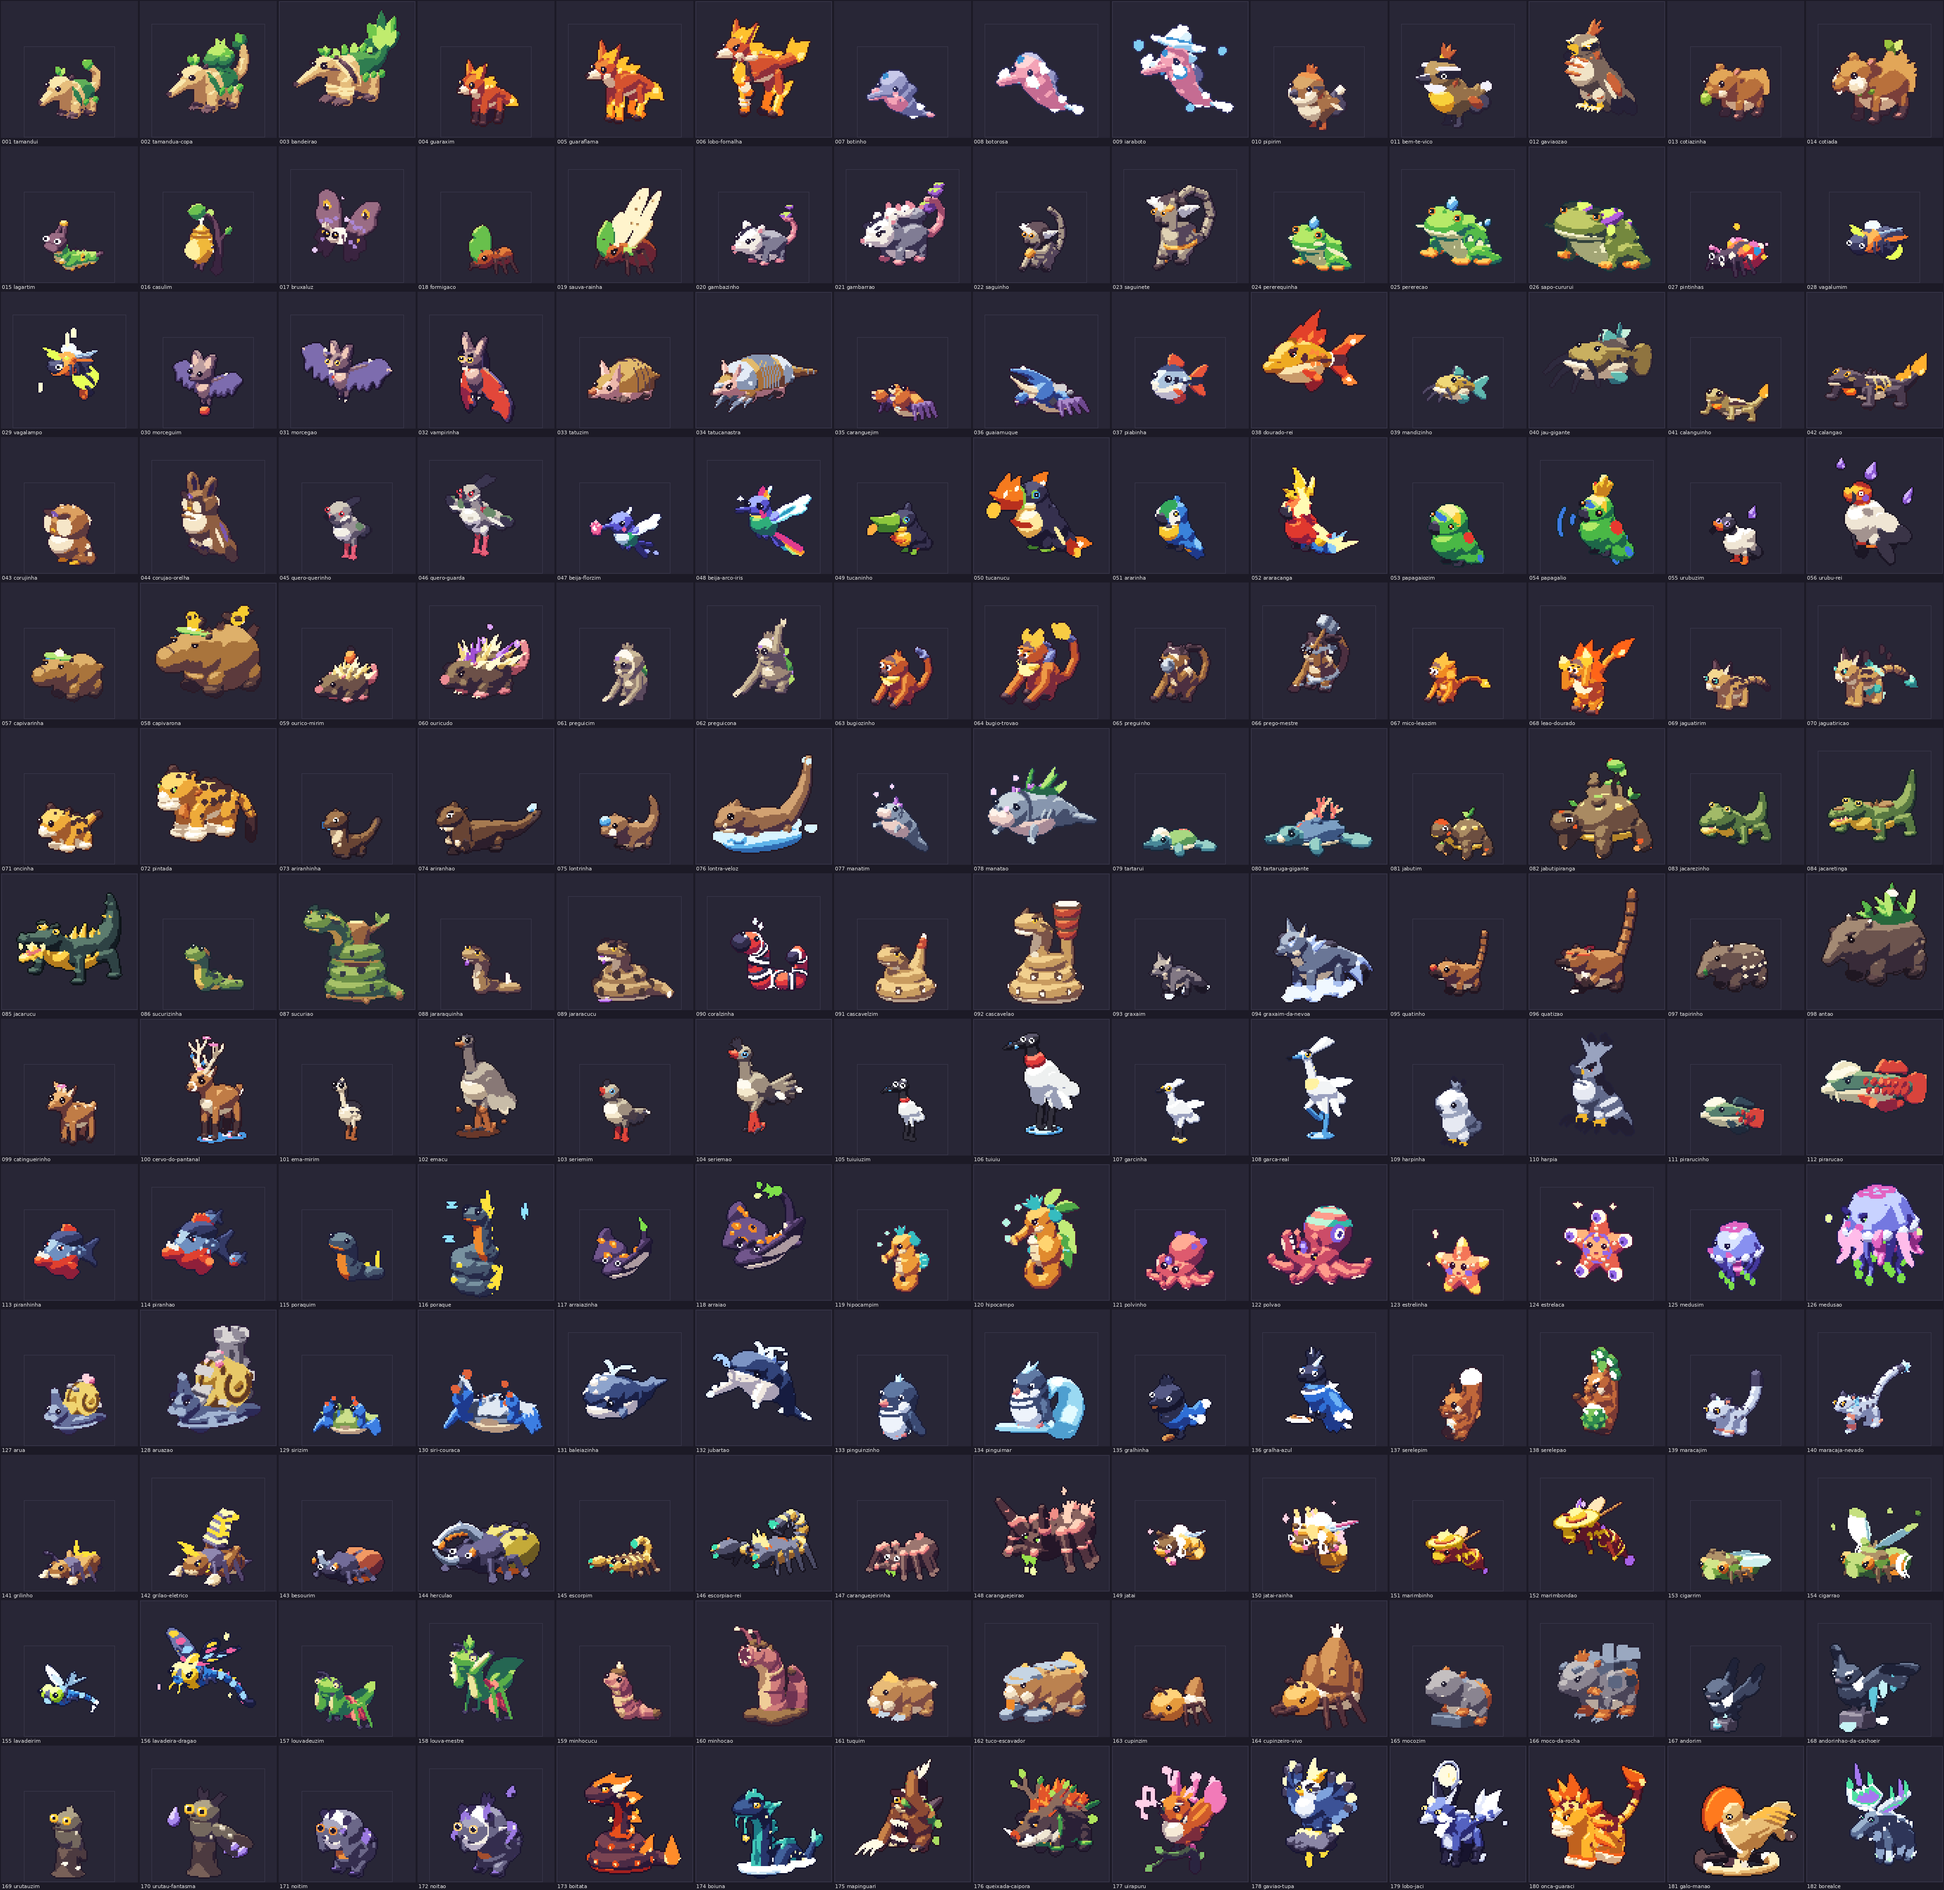
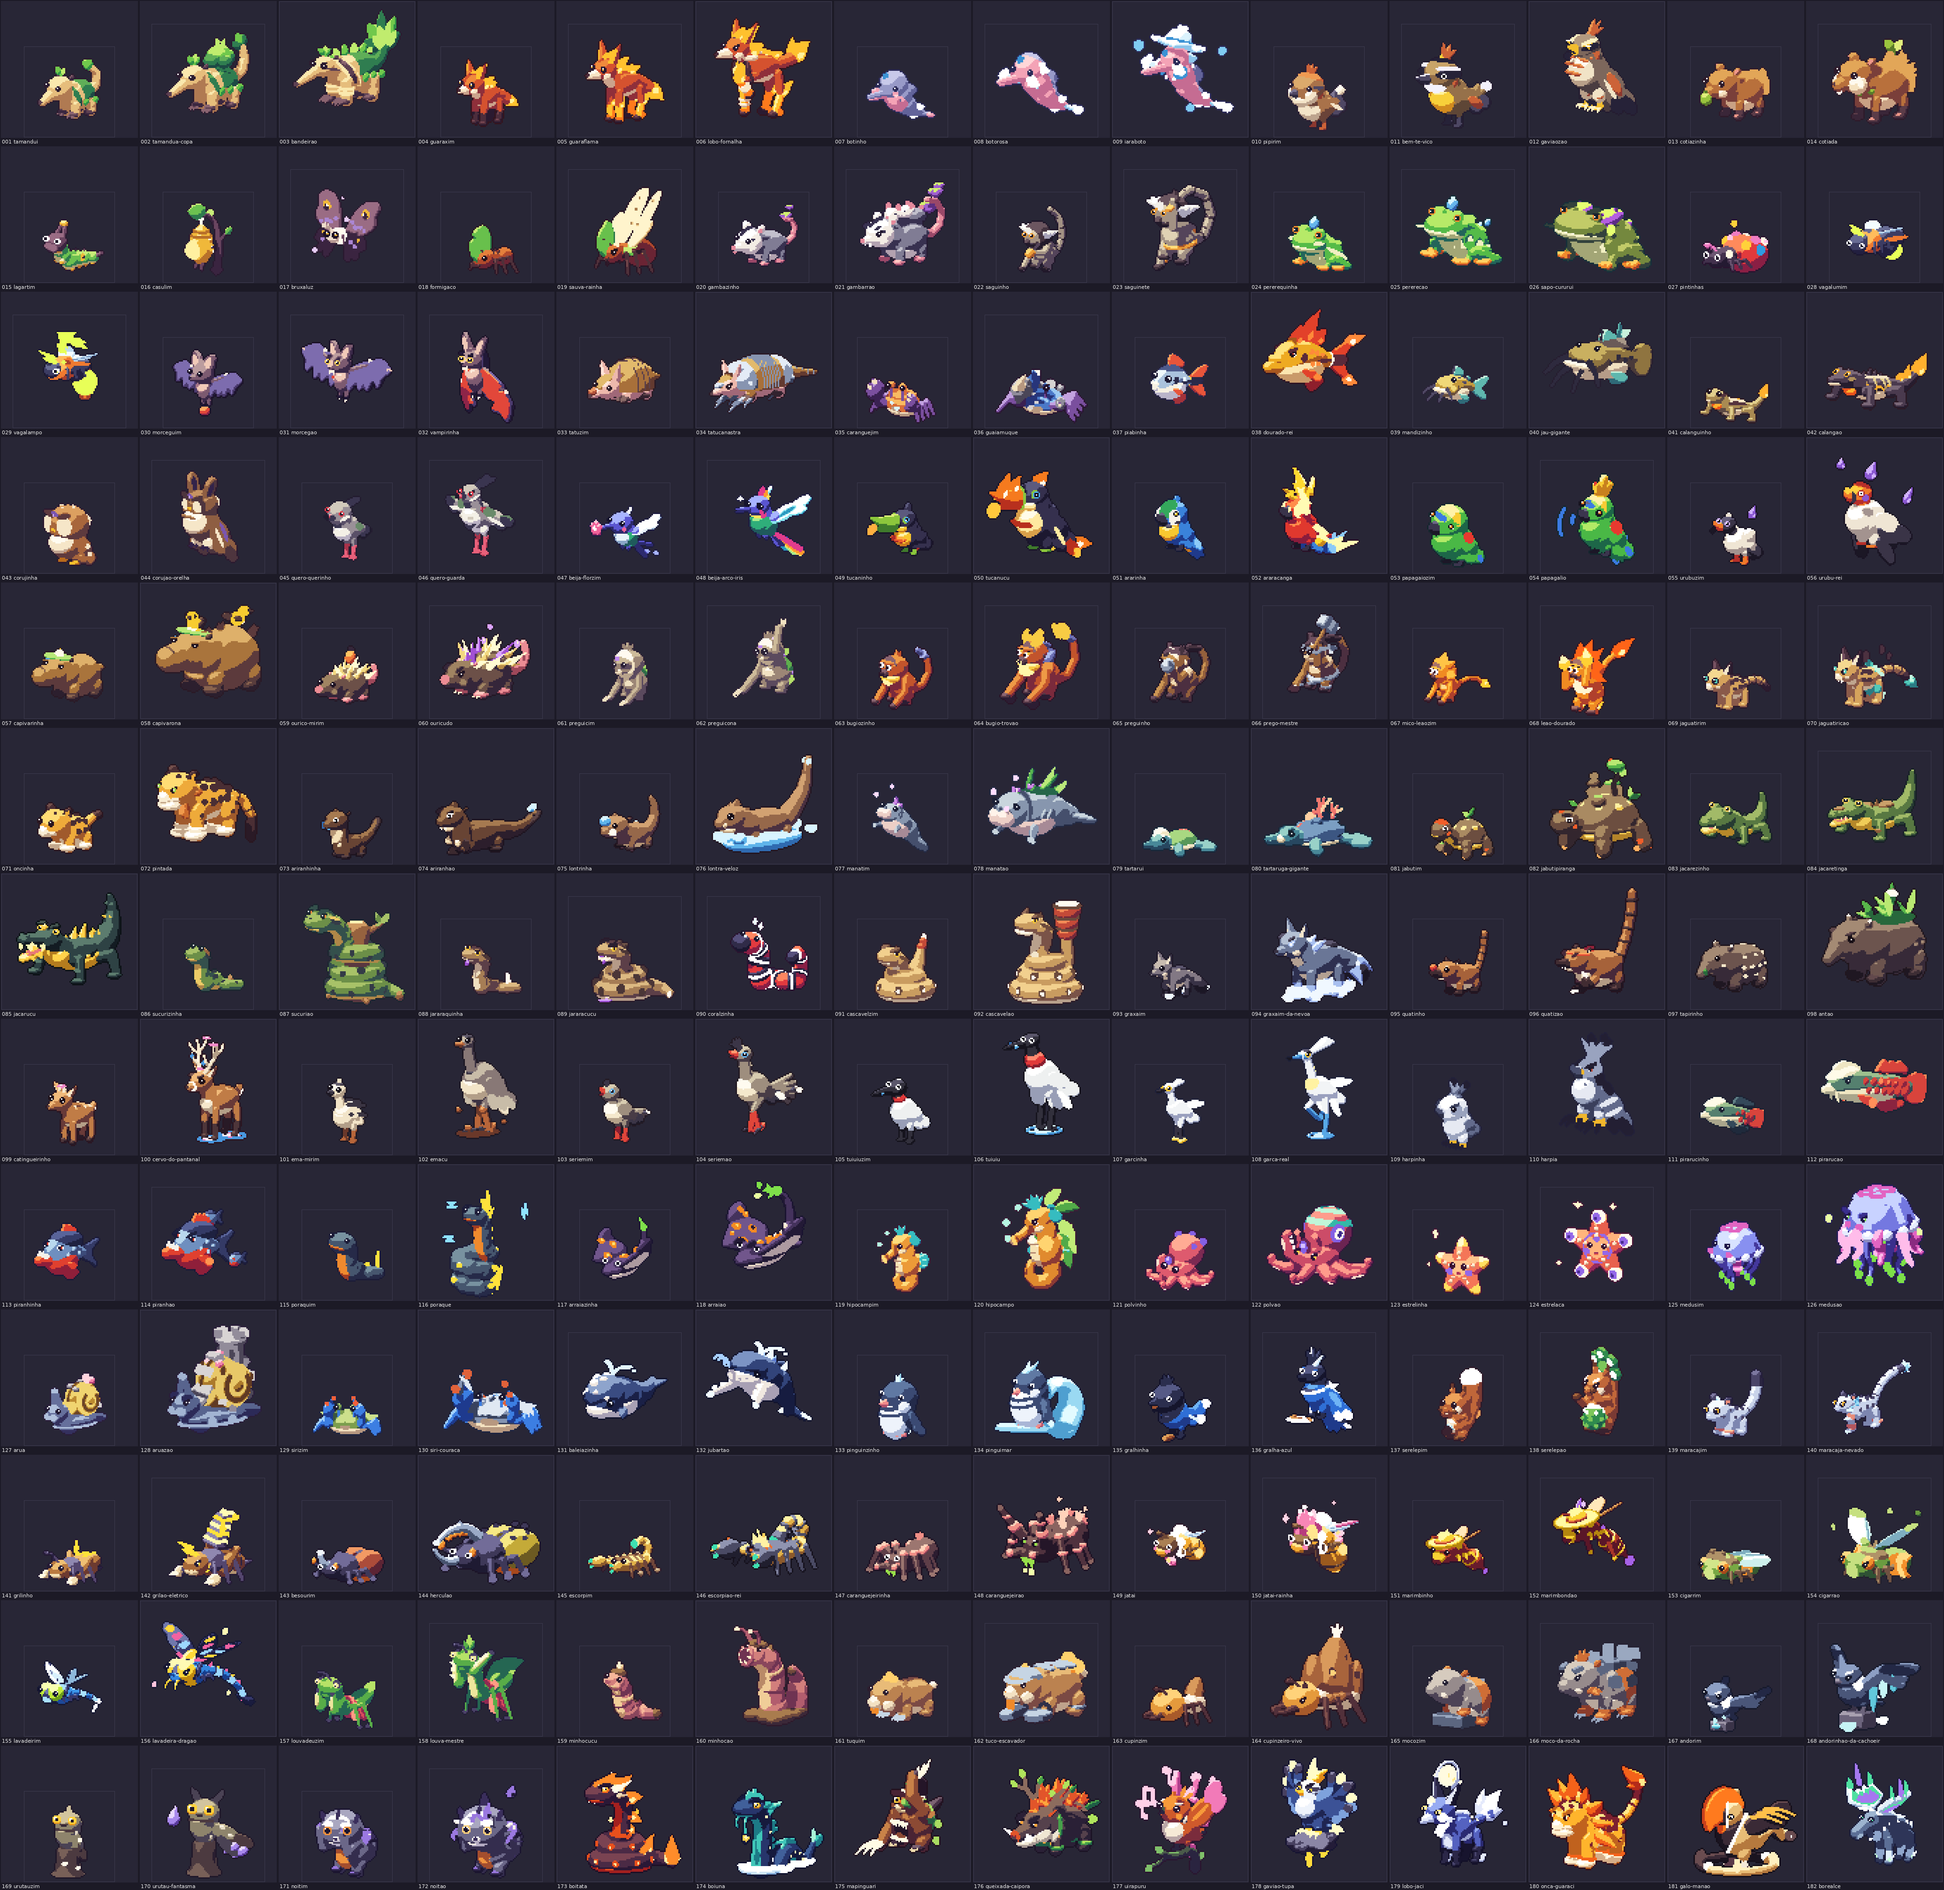
Ponto de salvamento: agentes em andamento
Claude-Session: https://claude.ai/code/session_01SZRMGL5ucTqVdJSeQD5arp

diff --git a/tools/build-raras.ts b/tools/build-raras.ts
@@ -24,7 +24,7 @@ const PASTA = join(RAIZ, 'public/assets/sprites/criatura');
 const VISTAS = ['frente', 'costas', 'mapa'] as const;
 
 /** h = giro de matiz em graus · s = fator de saturação · l = soma na luminosidade (−0,2..0,2) · alvo = pinta tudo numa matiz só (graus) */
-interface Receita { h?: number; s?: number; l?: number; alvo?: number; mistura?: number; /** só gira as matizes dentro desta faixa [de, até] (graus) */ faixa?: [number, number]; /** matiz para tingir os cinzas e brancos (usada quando a criatura é quase sem cor) */ tingir?: number }
+interface Receita { h?: number; s?: number; l?: number; alvo?: number; mistura?: number; /** só gira as matizes dentro desta faixa [de, até] (graus) */ faixa?: [number, number]; /** matiz para tingir os cinzas e brancos (usada quando a criatura é quase sem cor) */ tingir?: number; /** receita para as cores que ficaram fora da `faixa` */ extra?: Receita }
 
 /** padrão por tipo principal: a cor "rara" de cada família */
 const POR_TIPO: Record<TipoId, Receita> = {
@@ -50,7 +50,8 @@ const POR_TIPO: Record<TipoId, Receita> = {
 /** receitas escritas à mão (iniciais, aves vistosas, peixes e as que o padrão deixava sem graça) */
 const RECEITAS: Record<string, Receita> = {
   // iniciais: Mata → outono dourado; Brasa → fogo azul; Rio → boto lilás
-  tamandui: { h: -80, s: 1.2, faixa: [60, 200] }, 'tamandua-copa': { h: -80, s: 1.2, faixa: [60, 200] }, bandeirao: { h: -80, s: 1.2, faixa: [60, 200] },
+  // iniciais da Mata: folhas de ouro e pelo prateado
+  tamandui: { h: -80, s: 1.2, faixa: [60, 200], extra: { alvo: 215, s: 0.55, l: 0.04 } }, 'tamandua-copa': { h: -80, s: 1.2, faixa: [60, 200], extra: { alvo: 215, s: 0.55, l: 0.04 } }, bandeirao: { h: -80, s: 1.2, faixa: [60, 200], extra: { alvo: 215, s: 0.55, l: 0.04 } },
   guaraxim: { h: 200, s: 1.0 }, guaraflama: { h: 200, s: 1.0 }, 'lobo-fornalha': { h: 200, s: 1.0 },
   botinho: { h: 85, s: 1.05 }, botorosa: { h: -100, s: 1.15 }, iaraboto: { h: 85, s: 1.05 },
   // aves e pássaros
@@ -95,7 +96,7 @@ const lim = (x: number, a = 0, b = 1) => Math.max(a, Math.min(b, x));
 export function trocarCor(r: number, g: number, b: number, rc: Receita): [number, number, number] {
   const [h, s, l] = rgbParaHsl(r, g, b);
   if (s < 0.12 || l < 0.08 || l > 0.94) return [r, g, b];
-  if (rc.faixa && !(h >= rc.faixa[0] && h <= rc.faixa[1])) return [r, g, b];
+  if (rc.faixa && !(h >= rc.faixa[0] && h <= rc.faixa[1])) return rc.extra ? trocarCor(r, g, b, rc.extra) : [r, g, b];
   let nh = h + (rc.h ?? 0);
   if (rc.alvo !== undefined) { const m = rc.mistura ?? 1; let d = ((rc.alvo - h + 540) % 360) - 180; nh = h + d * m; }
   // peso pela saturação: cores quase cinzas giram menos (transição suave)

diff --git a/assets-src/fx/fx-gerais.ts b/assets-src/fx/fx-gerais.ts
@@ -46,6 +46,14 @@ const CUIAS: Record<string, CoresCuia> = {
   'cuia-rapida': cuiaCores(['#a32638', '#e0483c', '#f58a4b'], ['#c4c6d4', '#fff8e7', '#ffffff'], ['#fff07a', '#e0483c'], '#2f86c4', '#4a1020'),
   'cuia-mel': cuiaCores(['#c8662a', '#f9c22b', '#fff07a'], ['#7a3a18', '#c8662a', '#f0a060'], ['#fff8e7', '#f58a4b'], '#6b4226', '#4a2010'),
   'cuia-guardia': cuiaCores(['#1f7a6c', '#3fbfa0', '#8fe8b0'], ['#c98f4e', '#f9c22b', '#fff07a'], ['#fff8e7', '#3a5ad0'], '#e58ad0', '#0e3a34'),
+  // cuias artesanais do Mestre Cabaceiro (spec 10A-6): a cabaça tem a cor do fruto da cuieira
+  'cuia-ligeira': cuiaCores(['#c98f1e', '#f9c22b', '#fff07a'], ['#c4c6d4', '#fff8e7', '#ffffff'], ['#fff8e7', '#6fc7e8'], '#2f86c4', '#5a3a08'),
+  'cuia-pesada': cuiaCores(['#2a1f33', '#4a3a55', '#7a6a8a'], ['#5a5a6e', '#8a8aa0', '#c4c6d4'], ['#c4c6d4', '#2a1f33'], '#e0483c', '#120c18'),
+  'cuia-lua': cuiaCores(['#a8a8b8', '#e8e8f0', '#ffffff'], ['#2e2452', '#5a4a8c', '#9a8ad0'], ['#fff07a', '#5a4a8c'], '#fff07a', '#3b3550'),
+  'cuia-amiga': cuiaCores(['#2f7a3a', '#6cc04a', '#b8ec7a'], ['#c8662a', '#f0a060', '#ffd0a0'], ['#fff8e7', '#e58ad0'], '#e58ad0', '#16401c'),
+  'cuia-isca': cuiaCores(['#2f4f9c', '#4f8ae0', '#9cd0f4'], ['#6b4226', '#9c6434', '#c98f4e'], ['#e8c07a', '#2f4f9c'], '#e0483c', '#14284e'),
+  'cuia-nivel': cuiaCores(['#9c2a2a', '#e0483c', '#f7a07a'], ['#1a1423', '#3b2a35', '#6a5a6e'], ['#f9c22b', '#9c2a2a'], '#f9c22b', '#4a1010'),
+  'cuia-amor': cuiaCores(['#a8407e', '#e58ad0', '#f7c4e0'], ['#fff8e7', '#ffffff', '#ffffff'], ['#e0483c', '#f7c4e0'], '#e0483c', '#4a1a38'),
 };
 /** quadros: 0 fechada · 1 inclina à esquerda · 2 inclina à direita · 3 aberta · 4–7 girando no ar */
 function quadroCuia(q: Quadro, i: number, cores: CoresCuia) {

diff --git a/src/battle/view/menus.ts b/src/battle/view/menus.ts
@@ -14,7 +14,7 @@ import { Abas } from '../../ui/componentes/abas';
 import { golpe as defGolpe } from '../../data/golpes';
 import { ITENS, item as defItem, temItemDef } from '../../data/itens';
 import { atributos, especie, nomeDe, temEspecie } from '../criatura';
-import { fxUi } from './cena';
+import { fxUi, temFx } from './cena';
 import { div, type Ator } from './palco';
 import { painel } from './hud';
 
@@ -152,7 +152,7 @@ export function menuMochila(o: { mochila: Record<string, number>; podeCuia: bool
   const montar = (bi: number) => {
     ultimoBolso = bi; lista?.el.remove();
     const b = BOLSOS_BATALHA[bi], its = itensDe(b);
-    const mini = (id: string) => (b === 'cuias' ? (() => { const f = fxUi(id, 0); f.el.style.marginTop = '-2px'; return f.el; })() : undefined);
+    const mini = (id: string) => (b === 'cuias' ? (() => { const f = fxUi(temFx(id) ? id : 'cuia', 0); f.el.style.marginTop = '-2px'; return f.el; })() : undefined);
     lista = new Lista({
       itens: its.length ? its.map((it) => ({ rotulo: it.nome, valor: '×' + o.mochila[it.id], icone: mini(it.id), desabilitado: b === 'cuias' && !o.podeCuia })) : [{ rotulo: 'Nada neste bolso.', desabilitado: true }],
       x: 10, y: 30, largura: 212, visiveis: 4, moldura: null, tamanho: 12,

diff --git a/src/battle/view/tela.ts b/src/battle/view/tela.ts
@@ -132,8 +132,9 @@ export function criarTelaBatalha(args: ArgsTelaBatalha): Tela {
   /** Pelagem Rara (spec 10A-5): chuva de estrelas em volta da criatura ao entrar */
   async function brilhoRaro(a: Ator) {
     som('cuia-estrelas');
-    const [cx, cy] = a.centro, pontos: [number, number][] = [[-14, -10], [12, -14], [-6, 8], [16, 4], [0, -20], [-18, 2]];
-    for (const [dx, dy] of pontos) { cena.fx('st-brilho', cx + dx, cy + dy); await rel.dormir(0.07); }
+    const [cx, cy] = a.centro, r = Math.max(14, Math.round(a.alt * 0.55)), pontos: [number, number][] = [[-1, -0.7], [0.9, -1], [-0.4, 0.6], [1.1, 0.3], [0, -1.3], [-1.2, 0.1], [0.5, 0.9], [-0.8, -1.1]];
+    cena.fx('cap-estrelas', cx, cy - 4);
+    for (let volta = 0; volta < 2; volta++) for (const [dx, dy] of pontos) { cena.fx('st-brilho', cx + Math.round(dx * r * (volta ? 0.7 : 1)), cy + Math.round(dy * r * (volta ? 0.7 : 1))); await rel.dormir(0.05); }
     cena.fx('cap-estrelas', cx, cy - 4);
   }
   async function sair(p: Pos) {

diff --git a/docs/ARTE-FINAL.md b/docs/ARTE-FINAL.md
@@ -48,3 +48,30 @@ Ferramentas no scratchpad: folha de contato (`folha.py`), antes/depois por id (`
   aparecem; barriga laranja grande no peito; sobrancelhas brancas.
 - 169 urutauzim / 170 urutau-fantasma: cabeça para a câmera (dois olhos de pires), riscas de casca e líquen, plumagem mais clara que o toco.
 - 167 andorim (e a paleta do 168): asas-foice varridas para trás (antes pareciam orelhas), fuligem mais clara com volume, sobrancelha e queixo brancos.
+- 150 jataí-rainha: coroa de cera ROSA de três pontas (branca sumia nas asas; mel sumia no corpo), cinta rosa limpa no lugar dos babados.
+- 154 cigarrão: ondas sonoras laranja e mais grossas (brancas pareciam costelas da asa).
+- 101 ema-mirim / 105 tuiuiuzim: proporção de filhote (corpo e cabeça maiores, pernas e pescoço mais curtos, olho maior): antes eram fiapos na célula.
+- 109 harpinha: bico maior e mais curvo, sobrancelha escura franzida, penacho maior. 110 harpia: barriga branca grande sob o colar negro.
+- 181 galo-manaó: o corte das duas águas virou um plano vertical que contém as câmeras de batalha (fase da calota girada 50°) e a asa da frente
+  ficou escura: na batalha o corpo lê metade areia / metade rio Negro, lado a lado.
+- 182 borealce: chifrada do ataque físico mais curta (o zoom manual cortava a galhada; o tamanho é limitado pela própria galhada — fica assim).
+- 165 mocozim (e paleta do 166): cinza puxado ao pardo, garupa ruiva descendo pelos flancos, bochechas maiores.
+- 029 vagalampo: lampião sem aros (os aros escuros listravam como abelha), faíscas mais largas e perto do corpo (+3 pts de célula).
+- 155 lavadeirim (e 156 pela animação compartilhada `voaLib`): bater de asas do especial/físico mais curto; 156 com enquadre de costas 0.96.
+- 027 pintinhas: abdômen vermelho — a fresta entre os élitros deixou de ser uma risca escura; lê como cúpula de joaninha.
+- 148 caranguejeirão: patas mais finas e articuladas; enquadre 0.92/0.94 para nenhum quadro encostar na borda.
+- 146 escorpião-rei: cauda um pouco desenrolada para cima (pouca diferença). 145 escorpim: testei cauda erguida, piorou (enrolava sobre o corpo) — revertido.
+
+## Marco 3 — fechamento (20/11)
+- 25 sprites mudaram (lista no aviso em docs/CAPTURA-CRIACAO.md). `npx tsc --noEmit` limpo; `checar.ts` nos retocados: só restam
+  olho grande em noitim/noitão (6 px, é o traço "olhos de coruja"), urutau-fantasma (4,6 px), e repouso < 68% em vagalampo (64%),
+  tuiuiuzim costas (66%), lavadeirim costas (59%). Nenhum quadro novo encosta na borda (cigarrão físico#1 e escorpião-rei desmaio#3 já encostavam antes).
+- Atlas: 252 entradas, as 182 criaturas presentes, meta dos retocados coerente.
+- Folhas: docs/capturas/todas-frente.png, docs/capturas/todas-mapa.png (finais) e docs/capturas/retoques-2.png (antes rosado × depois verde: frente, costas, mapa).
+
+### Continua fraco (pendências honestas)
+- 036 guaiamuque e 146 escorpião-rei: melhoraram pouco; pedem remodelagem da pose (garra/cauda) com mais tempo.
+- 148 caranguejeirão: ainda embolado (tufos salmão + perna erguida que parece chifre).
+- 129 sirizim / 130 siri-couraça, 141 grilinho, 143 besourim, 153 cigarrim: legíveis, mas chatos e baixos — não mexidos.
+- 119/120 hipocampo, 055 urubuzim (filhote de urubu é branco mesmo), 061 preguicim: revistos, aceitáveis — não mexidos.
+- Pequenos na célula por animação larga (desmaio/ataque do kit): 015 lagartim, 018 formigaço, 028 vagalumim, 093 graxaim, 115 poraquim, 107 garcinha — não mexidos.

diff --git a/docs/CAPTURA-CRIACAO.md b/docs/CAPTURA-CRIACAO.md
@@ -27,3 +27,13 @@ src/core/tipos.ts (`rara?`, `criadouro?`) · src/core/assets.ts (vistas `-rara`,
 3. Ovos e ninhos no Viveiro do Seu Aroeira (pós-insígnia 6).
 4. Enxames do dia: `enxameDeHoje()` em `src/world/enxames.ts`.
 5. Trocas com 6 moradores + obediência (20/30/50/70/todas).
+
+## Aviso da arte final (agente de retoque das criaturas, 20/11) — REGENERAR AS RARAS destes
+Os PNG `frente/costas/mapa` destas 25 criaturas mudaram (diário em docs/ARTE-FINAL.md); as `*-rara.png` delas estão
+desatualizadas e precisam ser geradas de novo com `tools/build-raras.ts`:
+andorim, andorinhao-da-cachoeira, borealce, caranguejeirao, caranguejim, cigarrao, ema-mirim, escorpiao-rei, escorpim,
+galo-manao, guaiamuque, harpia, harpinha, jatai-rainha, lavadeira-dragao, lavadeirim, moco-da-rocha, mocozim, noitao,
+noitim, pintinhas, tuiuiuzim, urutau-fantasma, urutauzim, vagalampo.
+Atenção: algumas paletas mudaram (andorim/andorinhão, urutauzim/urutau-fantasma, mocozim/mocó-da-rocha, caranguejim:
+rampa 2) e os sprites de frente de caranguejim/guaiamuque/noitim/noitão/urutaus usam câmera/pose novas — se a troca de
+paleta das raras for por cor exata, confira esses ids. Ids, nomes de animação e número de quadros NÃO mudaram.
